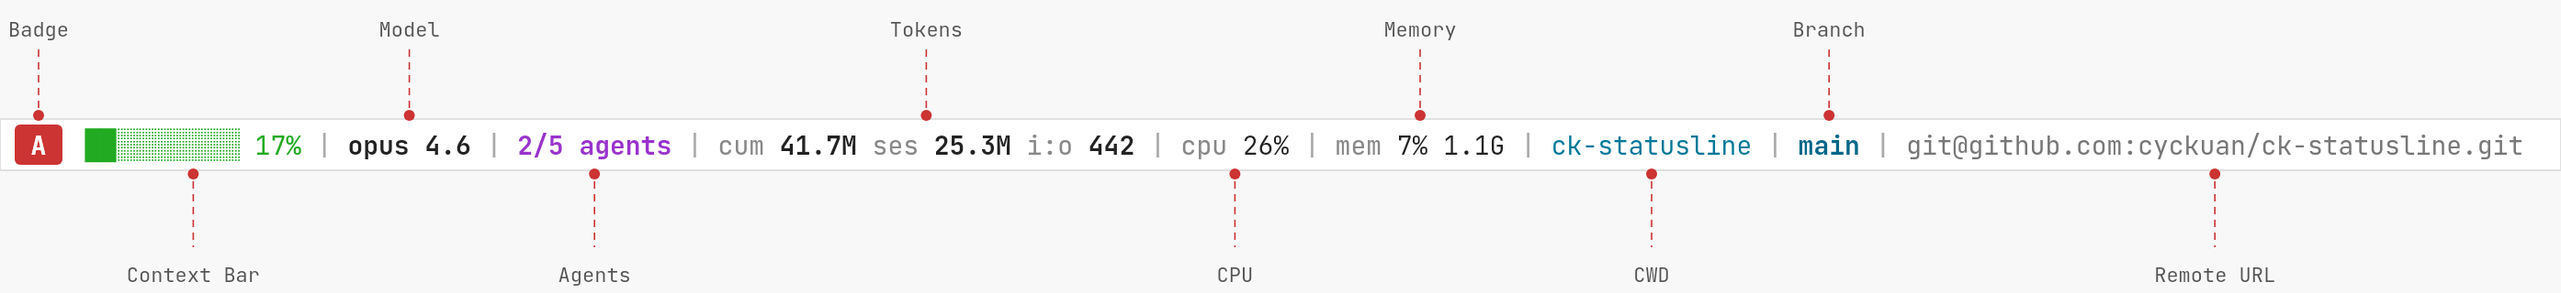
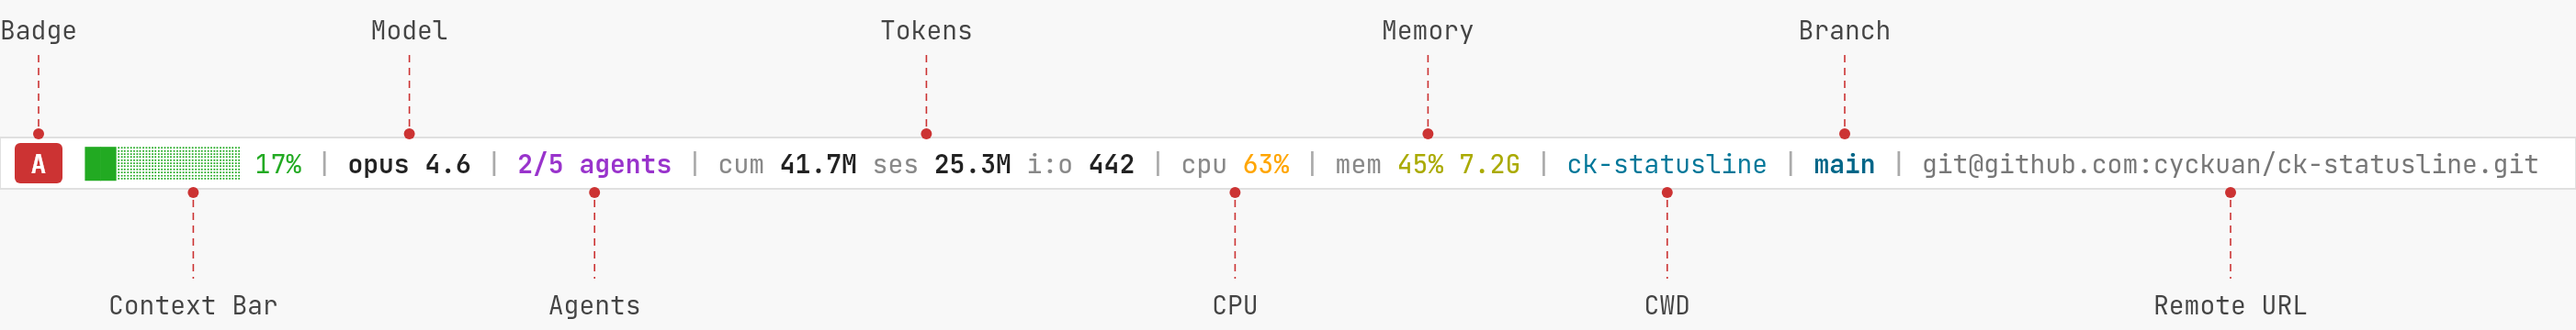
docs: rename to CK-CCS, update diagram with traffic light CPU/mem and larger callouts

diff --git a/README.md b/README.md
@@ -1,4 +1,4 @@
-# CK Claude Code Statusline
+# [CK-CCS] Claude Code Status Line
 
 A Claude Code plugin that displays a custom status line with a company badge, context utilisation, session tokens, system metrics, and git context. Automatically switches between dark and light colour schemes. Cross-platform (Linux, macOS, Windows).
 
